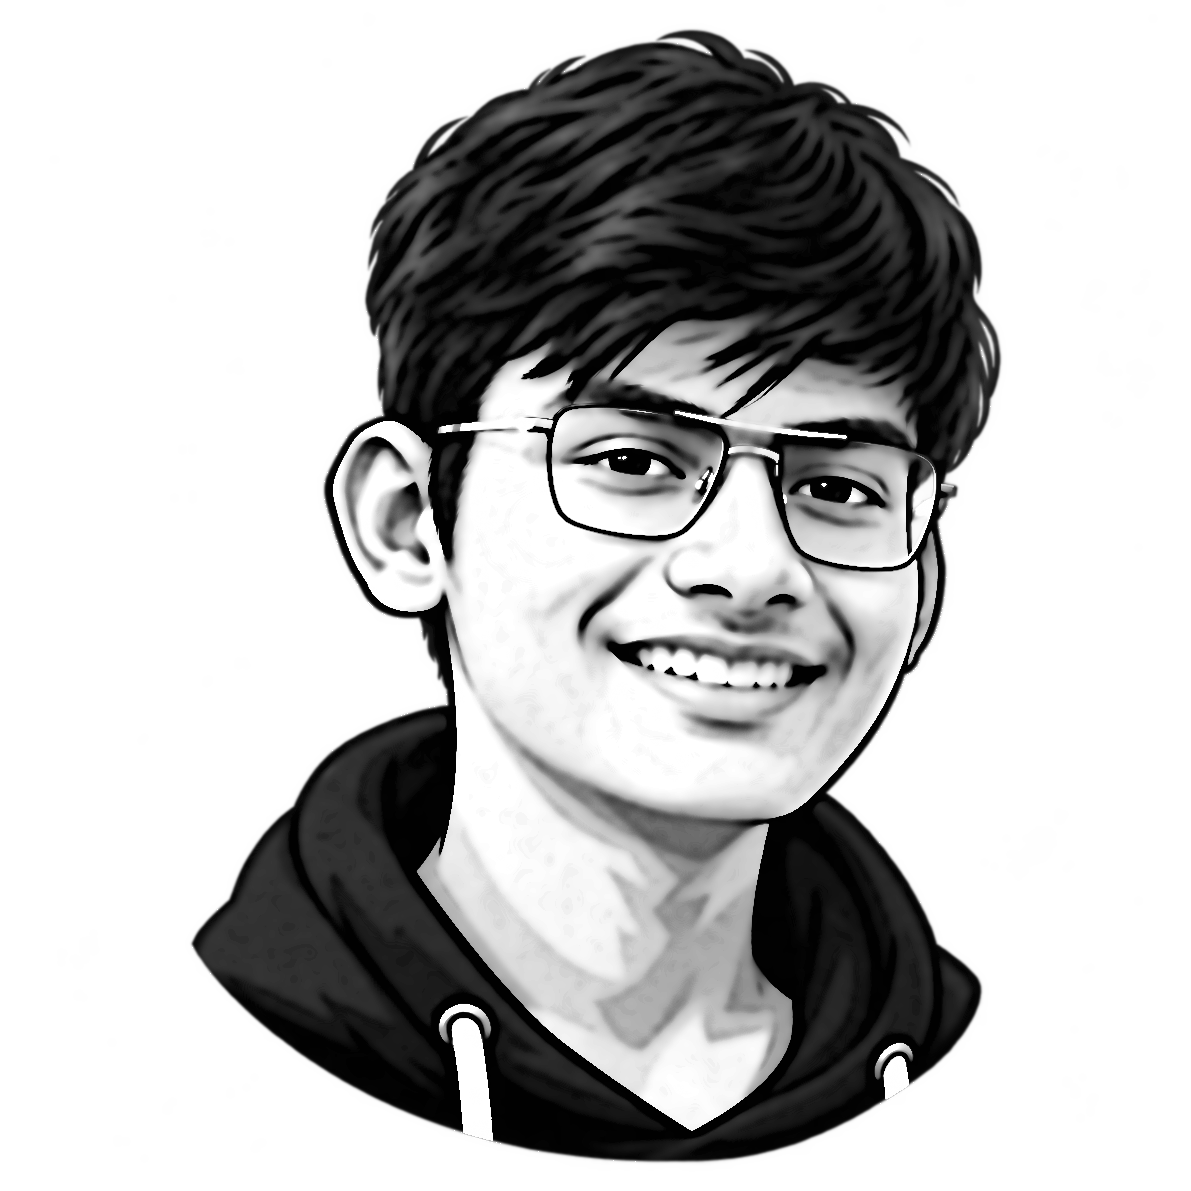
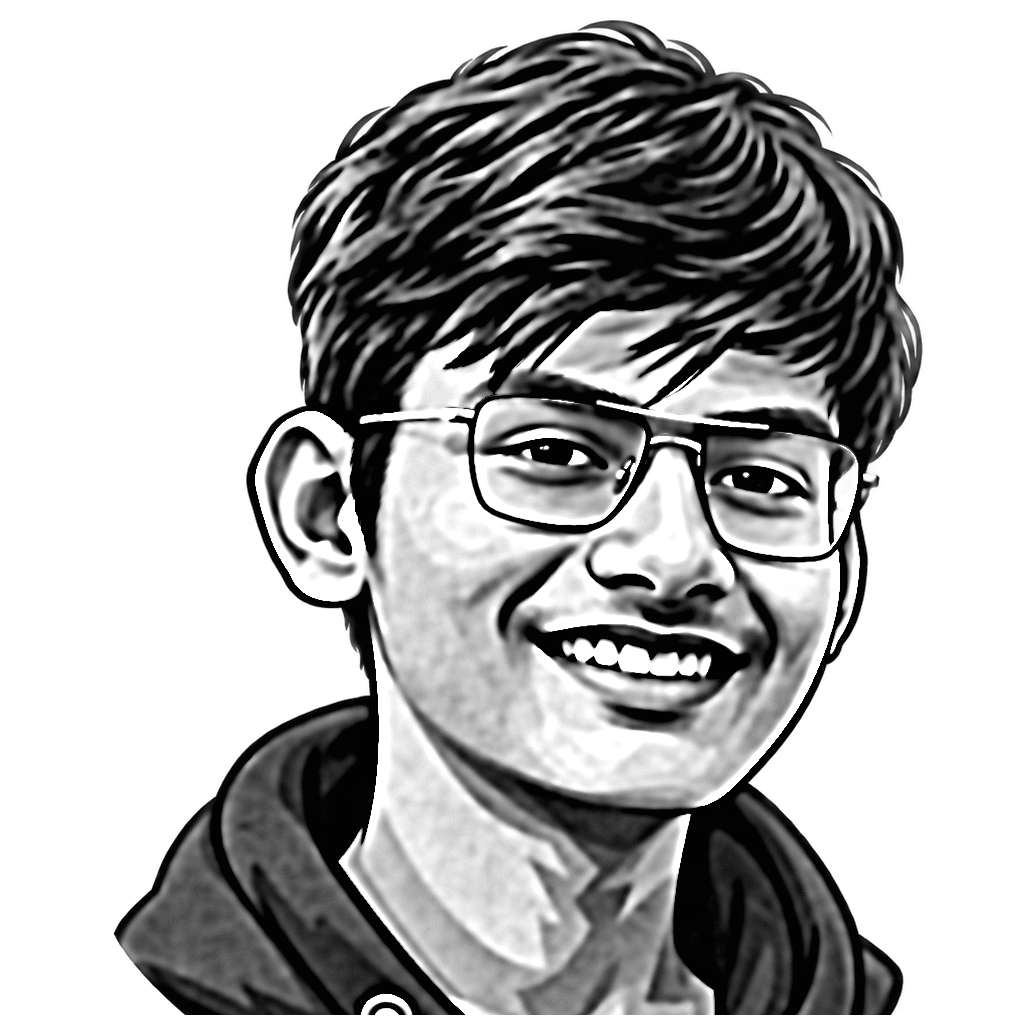
Enhance ASCII art generation and photo preparation scripts
- Updated `make_ascii_svg.py` to improve contrast handling and character density mapping for better ASCII representation.
- Modified image processing in `prep_photo.py` to include local contrast enhancement (CLAHE) and refined line work sharpening techniques.
- Adjusted cropping logic to focus on the subject's head and shoulders, ensuring a more centered output.
- Changed output format to include alpha channel for transparency in the final image.

diff --git a/scripts/prep_photo.py b/scripts/prep_photo.py
@@ -1,15 +1,17 @@
 """
 Prepare the dp (a flat illustration) for clean ASCII conversion:
   1. isolate the subject (PNG alpha if present, else rembg)
-  2. bilateral-smooth away the paper texture (otherwise skin turns to `::::`
-     noise and the eyes drown in it) while keeping the drawn lines sharp
-  3. stretch tones so skin lands near white and hair/lines stay dark
-  4. darken the line work (difference-of-gaussians ridges) -- eyelids, pupils,
-     glasses frame and smile are thin dark strokes that plain luminance
-     averaging washes out at ascii resolution
-  5. composite onto white and crop square around the subject
+  2. CLAHE for local contrast, then bilateral-smooth away the paper texture
+     while keeping the drawn lines sharp
+  3. stretch tones over the subject only
+  4. sharpen the line work (difference-of-gaussians): dark strokes (eyelids,
+     pupils, glasses frame, smile) are pushed darker and bright strands (hair
+     highlights) lighter, so both survive ascii resolution
+  5. crop square around the head and shoulders (the bottom of the hoodie is
+     dropped so the face gets more of the frame)
 
-Output: data/source-prepped.png (grayscale), consumed by make_ascii_svg.py.
+Output: data/source-prepped.png, grayscale + alpha (the alpha keeps the
+background blank in make_ascii_svg.py).
 
     python scripts/prep_photo.py [input.png] [output.png]
 """
@@ -24,7 +26,10 @@ HERE = os.path.dirname(os.path.abspath(__file__))
 INP = sys.argv[1] if len(sys.argv) > 1 else os.path.join(HERE, "..", "source-photo.png")
 OUT = sys.argv[2] if len(sys.argv) > 2 else os.path.join(HERE, "..", "data", "source-prepped.png")
 
-LINE_WEIGHT = 0.6     # how hard drawn lines are pushed toward black
+CLAHE = 2.0           # local contrast clip limit
+LINE_WEIGHT = 0.8     # how hard dark strokes are pushed toward black
+HIGHLIGHT = 0.5       # how hard bright strands are pushed toward white
+CROP = 0.88           # keep this fraction of the subject's height, from the top
 
 # 1. cut out the subject
 cut = Image.open(INP).convert("RGBA")
@@ -35,34 +40,38 @@ rgb = np.array(cut.convert("RGB"))
 alpha = np.array(cut.split()[-1])                 # 0 = background
 gray = cv2.cvtColor(rgb, cv2.COLOR_RGB2GRAY)
 
-# 2. smooth texture, keep edges
+# 2. local contrast, then smooth texture but keep edges
+gray = cv2.createCLAHE(clipLimit=CLAHE, tileGridSize=(8, 8)).apply(gray)
 smooth = gray
 for _ in range(3):
     smooth = cv2.bilateralFilter(smooth, 9, 40, 9)
 
 # 3. tone stretch over the subject only
-lo, hi = np.percentile(smooth[alpha > 128], [2, 92])
+lo, hi = np.percentile(smooth[alpha > 128], [3, 99])
 tone = np.clip((smooth.astype(np.float32) - lo) / (hi - lo), 0, 1)
 
-# 4. dark-on-light ridges -> darken
+# 4. dark ridges -> darker, bright ridges -> brighter
 fine = cv2.GaussianBlur(smooth, (0, 0), 1.5).astype(np.float32)
 coarse = cv2.GaussianBlur(smooth, (0, 0), 6).astype(np.float32)
-lines = np.clip((coarse - fine) / 40.0, 0, 1)
-out = np.clip(tone - LINE_WEIGHT * lines, 0, 1) * 255
+dark_lines = np.clip((coarse - fine) / 40.0, 0, 1)
+bright_lines = np.clip((fine - coarse) / 30.0, 0, 1)
+out = np.clip(tone - LINE_WEIGHT * dark_lines + HIGHLIGHT * bright_lines, 0, 1) * 255
 
-# 5. paste onto white (feathered a hair to avoid a halo), square crop
-mask = cv2.GaussianBlur(alpha.astype(np.float32) / 255.0, (0, 0), 1.0)
-out = out * mask + 255.0 * (1.0 - mask)
-
+# 5. square crop around head + shoulders
 ys, xs = np.where(alpha > 20)
-side = max(xs.max() - xs.min(), ys.max() - ys.min()) + 60
-cx, cy = (xs.min() + xs.max()) // 2, (ys.min() + ys.max()) // 2
-canvas = np.full((side, side), 255, np.uint8)
+top = ys.min()
+bot = int(top + (ys.max() - top) * CROP)
+side = max(xs.max() - xs.min(), bot - top) + 40
+cx, cy = (xs.min() + xs.max()) // 2, (top + bot) // 2
 x0, y0 = cx - side // 2, cy - side // 2
 sx0, sy0 = max(x0, 0), max(y0, 0)
-sx1, sy1 = min(x0 + side, out.shape[1]), min(y0 + side, out.shape[0])
-canvas[sy0 - y0:sy1 - y0, sx0 - x0:sx1 - x0] = out[sy0:sy1, sx0:sx1].astype(np.uint8)
+sx1, sy1 = min(x0 + side, out.shape[1]), min(y0 + side, out.shape[0], bot)
+
+img = np.zeros((side, side), np.uint8)
+mask = np.zeros((side, side), np.uint8)
+img[sy0 - y0:sy1 - y0, sx0 - x0:sx1 - x0] = out[sy0:sy1, sx0:sx1].astype(np.uint8)
+mask[sy0 - y0:sy1 - y0, sx0 - x0:sx1 - x0] = alpha[sy0:sy1, sx0:sx1]
 
 os.makedirs(os.path.dirname(OUT), exist_ok=True)
-Image.fromarray(canvas, mode="L").save(OUT)
-print("wrote", OUT, canvas.shape)
+Image.fromarray(np.dstack([img, mask]), mode="LA").save(OUT)
+print("wrote", OUT, img.shape)

diff --git a/scripts/make_ascii_svg.py b/scripts/make_ascii_svg.py
@@ -2,8 +2,9 @@
 Convert the prepped portrait into a clean, monochrome ASCII-art SVG inside a
 terminal window that "types" itself in, then holds.
 
-One fill color + a good density ramp + high contrast (so the background washes
-out to blank) reads as neat and legible. GitHub renders SVGs embedded via <img>
+One fill color + a good density ramp reads as neat and legible. Light text on
+a dark card, so bright skin maps to dense characters and dark strokes (glasses,
+eyes, smile) to sparse ones; the alpha mask keeps the background blank. GitHub renders SVGs embedded via <img>
 and runs their SMIL animations (JS does not run). Each row is revealed with a
 left-to-right clip wipe plus a block cursor riding the wipe edge, staggered
 top -> bottom, so the portrait prints once and freezes.
@@ -16,7 +17,7 @@ import html
 import os
 import sys
 
-from PIL import Image, ImageEnhance
+from PIL import Image
 
 HERE = os.path.dirname(os.path.abspath(__file__))
 SRC = sys.argv[1] if len(sys.argv) > 1 else os.path.join(HERE, "..", "data", "source-prepped.png")
@@ -32,11 +33,9 @@ ART_W = 800
 CELL_W = ART_W / COLS
 CELL_H = CELL_W * 15 / 8
 ROWS = round(COLS * 8 / 15)
-RAMP = " .`:-=+*cs#%@"  # bright(sparse) -> dark(dense); leading space clears bg
+RAMP = " .`:-=+*cs#%@"  # sparse -> dense; index 0 (space) is reserved for background
 
-CONTRAST = 1.05
-GAMMA = 1.18          # >1 brightens mids -> face lands in sparser chars
-WHITE_FLOOR = 0.80    # luminance above this is forced to blank (space)
+GAMMA = 1.3           # >1 darkens mids -> skin stays bright, hair/hoodie recede
 
 PAD = 20
 TITLEBAR_H = 30
@@ -56,21 +55,19 @@ STAGGER = ROW_DUR
 STATIC = bool(os.environ.get("STATIC"))  # emit frozen state for previews
 
 # ---- 1. sample the image into a COLS x ROWS grid ---------------------------
-im = Image.open(SRC).convert("L")
-im = ImageEnhance.Contrast(im).enhance(CONTRAST)
-im = im.resize((COLS, ROWS), Image.LANCZOS)
+im = Image.open(SRC).convert("LA").resize((COLS, ROWS), Image.LANCZOS)
 px = im.load()
 
 rows_txt = []
 for y in range(ROWS):
     chars = []
     for x in range(COLS):
-        lum = pow(px[x, y] / 255.0, GAMMA)
-        if lum >= WHITE_FLOOR:
+        gray, alpha = px[x, y]
+        if alpha < 128:
             chars.append(" ")
             continue
-        idx = int((1.0 - lum) * (len(RAMP) - 1) + 0.5)
-        chars.append(RAMP[max(0, min(len(RAMP) - 1, idx))])
+        lum = pow(gray / 255.0, GAMMA)
+        chars.append(RAMP[1 + int(lum * (len(RAMP) - 2) + 0.5)])
     rows_txt.append("".join(chars))
 
 art_top = TITLEBAR_H + PAD * 0.35
